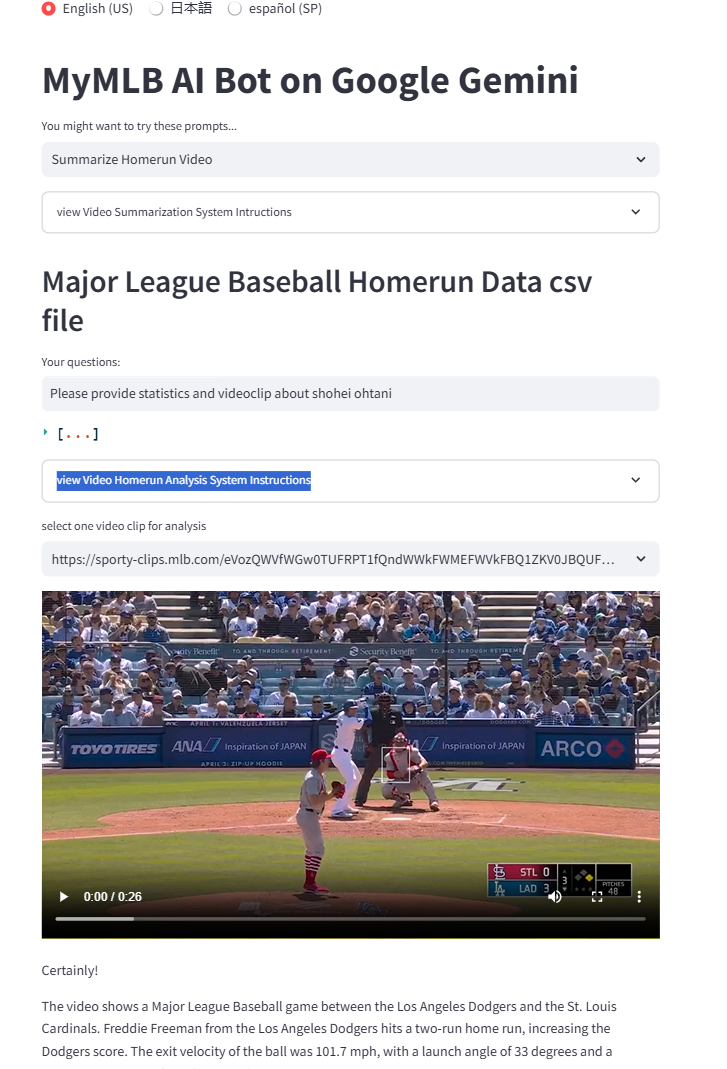
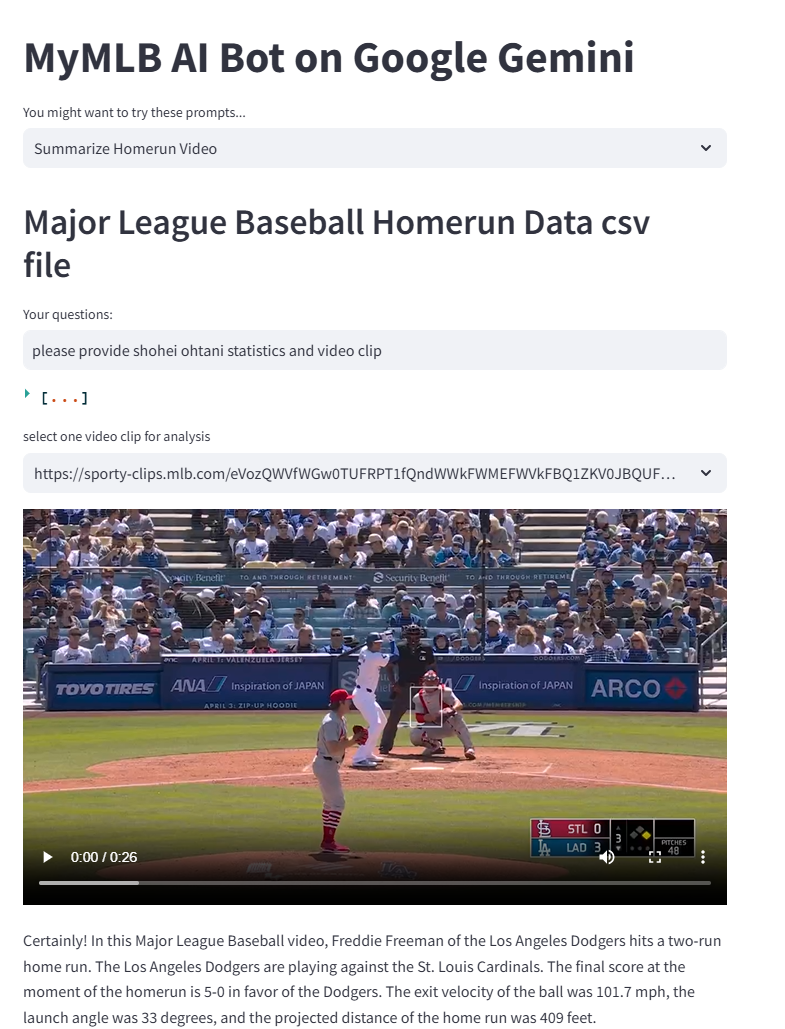
update app code and new screenshots

diff --git a/app.py b/app.py
@@ -30,8 +30,7 @@ vertexai.init(project=PROJECT_ID, location=LOCATION)
 
 from config import video_summarization_system_instructions, video_homerun_analysis_system_instructions, team_player_information_system_instructions, safety_settings, generation_config
 
-def video_analysis(url: str):
-    video_homerun_analysis_model = GenerativeModel(model_name="models/"+GEMINI_MODEL, system_instruction=video_homerun_analysis_system_instructions.format(TeamPlayerRoasterRelation=TEAM_PLAYER_ROASTER_RELATION))
+def video_analysis(video_homerun_analysis_model: GenerativeModel, url: str):
     response = video_homerun_analysis_model.generate_content(
         [
             Part.from_uri(
@@ -168,6 +167,8 @@ def main():
     #st.image("img/logo-lomoai.png", width=64)
     model_function_call = None
     model_team_player_information = None
+    model_video_summarization = None
+    video_homerun_analysis_model = None
 
     st.title(lang_dict['title']) #'MyMLB AI Bot on Google Gemini')
     init_prompt = st.selectbox(
@@ -181,15 +182,13 @@ def main():
     )
 
     if init_prompt.find("ideo") != -1 or init_prompt.find("ビデオ") != -1:
-        model_video_summarization = GenerativeModel(
-            model_name=GEMINI_MODEL,
-            safety_settings=safety_settings,
-            generation_config=generation_config,
-            system_instruction=video_summarization_system_instructions
-        )
-
-        with st.expander(lang_dict['summarizeVideoInstructions']): #"view Video Summarization System Intructions"):
-            st.write(video_summarization_system_instructions)
+        if (model_video_summarization == None):
+            model_video_summarization = GenerativeModel(
+                model_name=GEMINI_MODEL,
+                safety_settings=safety_settings,
+                generation_config=generation_config,
+                system_instruction=video_summarization_system_instructions
+            )
         
         #st.image("img/logo-lomoai.png", width=96)
 
@@ -218,13 +217,15 @@ def main():
                 print(li)
                 #li.insert(0,lang_dict['placeHolderPrompt'])
                 if li is not None:
-                    with st.expander(lang_dict['analyzeVideoInstructions']):
-                        st.write(video_homerun_analysis_system_instructions.format(TeamPlayerRoasterRelation=TEAM_PLAYER_ROASTER_RELATION))
+#                    with st.expander(lang_dict['analyzeVideoInstructions']):
+#                        st.write(video_homerun_analysis_system_instructions.format(TeamPlayerRoasterRelation=TEAM_PLAYER_ROASTER_RELATION))
 
                     video_url_input=st.selectbox(lang_dict['analyseVideo'], li, placeholder=lang_dict['placeHolderAnalyseVideo'])
                     if video_url_input.startswith("https://"):
+                        if (video_homerun_analysis_model == None):
+                            video_homerun_analysis_model = GenerativeModel(model_name="models/"+GEMINI_MODEL, system_instruction=video_homerun_analysis_system_instructions.format(TeamPlayerRoasterRelation=TEAM_PLAYER_ROASTER_RELATION))
                         st.video(video_url_input)
-                        video_details=video_analysis(video_url_input)
+                        video_details=video_analysis(video_homerun_analysis_model, video_url_input)
                         if video_details is not None:
                             print(video_details)
                             translated_video_details = deep_translate(video_details, 'en', lang_options[locale].split("_")[0])
